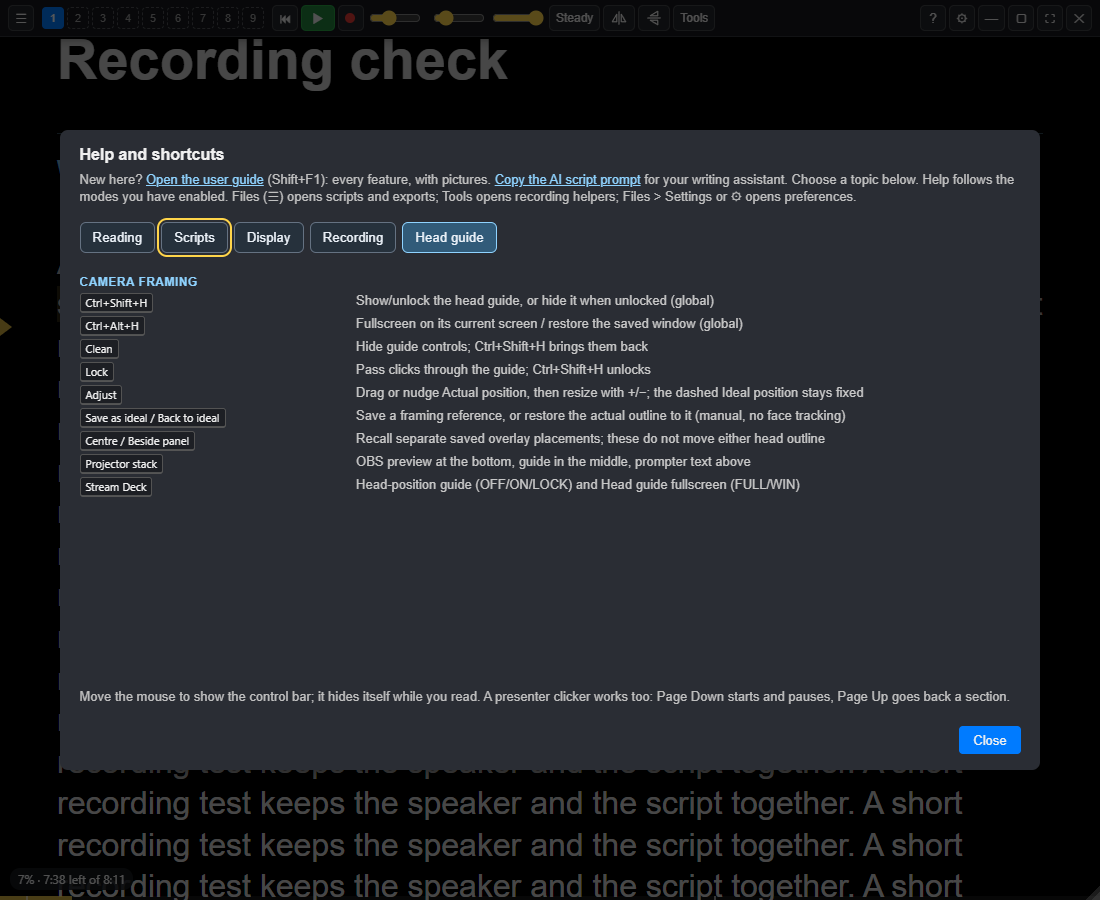
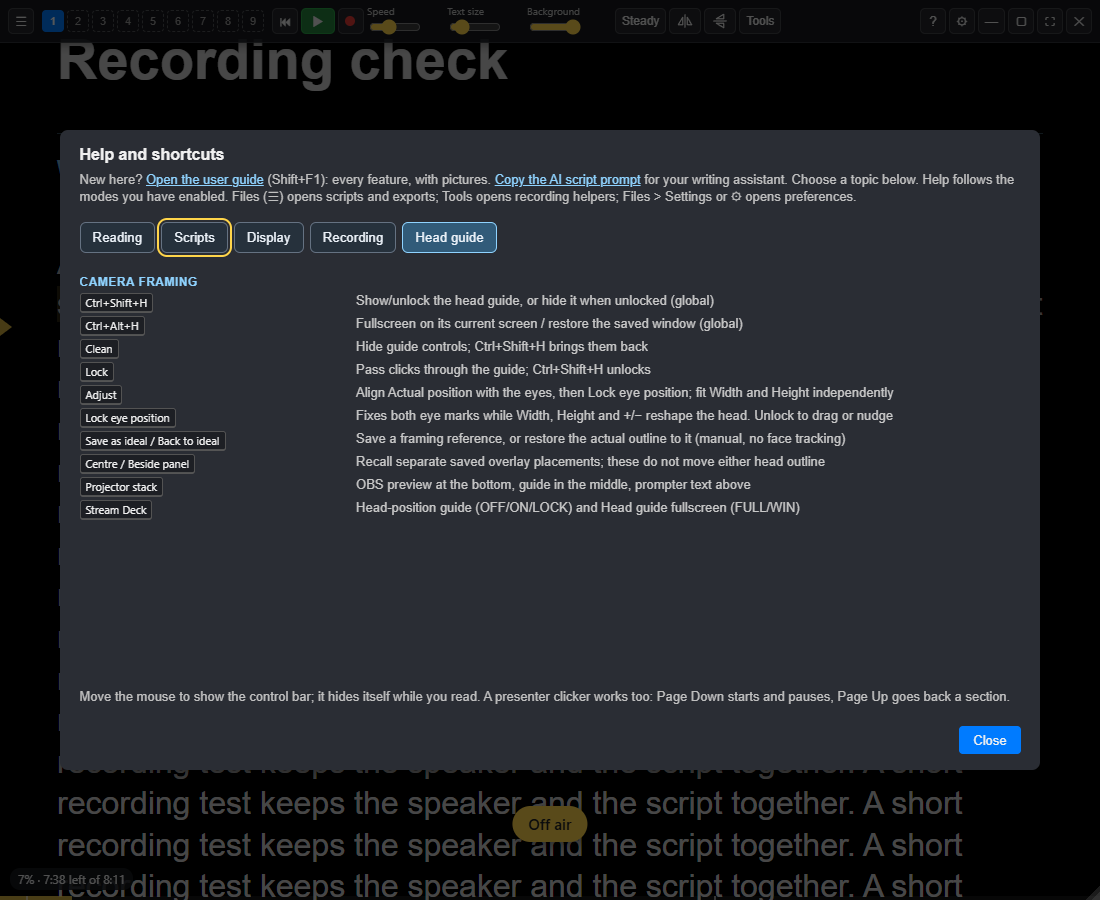
Fit head-guide width and height around locked eye positions

diff --git a/src/client/head-guide.js b/src/client/head-guide.js
@@ -5,6 +5,7 @@ const svg = document.querySelector( "svg" );
 let scale = 1;
 let resize = false;
 let pose = { x: 0, y: 0 };
+let eyesLocked = false;
 const idealShape = document.querySelector( "#head" ).cloneNode( true );
 idealShape.id = "ideal-head";
 idealShape.classList.add( "ideal" );
@@ -20,7 +21,7 @@ function point( event ) {
 	return matrix ? new DOMPoint( event.clientX, event.clientY ).matrixTransform( matrix.inverse() ) : null;
 }
 actualShape.onpointerdown = ( event ) => {
-	if ( event.button !== 0 ) return;
+	if ( event.button !== 0 || eyesLocked ) return;
 	const start = point( event );
 	if ( !start ) return;
 	dragging = { start, pose: { ...pose } };
@@ -28,7 +29,7 @@ actualShape.onpointerdown = ( event ) => {
 	event.preventDefault();
 };
 actualShape.onpointermove = ( event ) => {
-	if ( !dragging ) return;
+	if ( !dragging || eyesLocked ) return;
 	const next = point( event );
 	if ( !next ) return;
 	const moved = guidePose( { x: dragging.pose.x + ( next.x - dragging.start.x ) / 10, y: dragging.pose.y + ( next.y - dragging.start.y ) / 5.625, scale } );
@@ -38,6 +39,17 @@ actualShape.onpointerup = actualShape.onlostpointercapture = () => {
 	dragging = null;
 };
 const transform = value => `translate(${ value.x * 10 } ${ value.y * 5.625 }) translate(500 155) scale(${ value.scale }) translate(-500 -155)`;
+const shapeTransform = value => `translate(500 155) scale(${ value.width } ${ value.height }) translate(-500 -155)`;
+function showPose( element, value ) {
+	element.setAttribute( "transform", transform( value ) );
+	element.querySelector( ".head-outline" ).setAttribute( "transform", shapeTransform( value ) );
+	// Keep both eye marks fixed, even when changing the overall size.
+	element.querySelector( ".eye-reference" ).setAttribute( "transform", `translate(500 155) scale(${ 1 / value.scale }) translate(-500 -155)` );
+}
+document.querySelector( "#lock-eyes" ).onclick = () => guide.action( "preferences", { eyesLocked: !eyesLocked } );
+for ( const axis of [ "width", "height" ] ) {
+	document.querySelector( `#shape-${ axis }` ).oninput = event => guide.action( "preferences", { [axis]: Number( event.target.value ) / 100 } );
+}
 document.querySelector( "#adjust" ).onclick = () => {
 	const panel = document.querySelector( "#adjust-panel" );
 	panel.hidden = !panel.hidden;
@@ -57,9 +69,19 @@ guide.onState( ( value ) => {
 	for ( const button of document.querySelectorAll( "[data-place]" ) ) button.setAttribute( "aria-pressed", String( button.dataset.place === value.placement ) );
 	document.querySelector( "#fullscreen" ).textContent = value.fullscreen ? "Restore" : "Fullscreen";
 	scale = value.scale;
+	eyesLocked = value.eyesLocked === true;
+	document.body.classList.toggle( "eyes-locked", eyesLocked );
+	document.querySelector( "#lock-eyes" ).setAttribute( "aria-pressed", String( eyesLocked ) );
+	document.querySelector( "#lock-eyes" ).textContent = eyesLocked ? "Eyes fixed · unlock" : "Lock eye position";
+	for ( const button of document.querySelectorAll( ".pose-arrows button" ) ) button.disabled = eyesLocked;
+	for ( const axis of [ "width", "height" ] ) {
+		const percent = Math.round( value[axis] * 100 );
+		document.querySelector( `#shape-${ axis }` ).value = percent;
+		document.querySelector( `#shape-${ axis }-value` ).value = `${ percent }%`;
+	}
 	pose = { x: value.x, y: value.y };
-	document.querySelector( "#head" ).setAttribute( "transform", transform( value ) );
-	idealShape.setAttribute( "transform", transform( value.ideal ) );
+	showPose( actualShape, value );
+	showPose( idealShape, value.ideal );
 	idealShape.style.display = value.showIdeal ? "" : "none";
 	document.querySelector( "#ideal-visible" ).textContent = value.showIdeal ? "Hide ideal" : "Show ideal";
 	document.querySelector( "#pose-value" ).textContent = `X ${ value.x }% · Y ${ value.y }% · Size ${ Math.round( scale * 100 ) }%`;

diff --git a/src/head-guide.js b/src/head-guide.js
@@ -15,7 +15,7 @@ export function createHeadGuide( { dir, prompter, getSettings, saveSettings, sav
 	let normalBounds = null;
 	const state = () => {
 		const s = getSettings();
-		return { locked, fullscreen, chromeless: s.headGuideChromeless === true, ...guidePose( { x: s.headGuideX, y: s.headGuideY, scale: s.headGuideScale } ), ideal: guidePose( s.headGuideIdeal ), showIdeal: s.headGuideShowIdeal !== false, opacity: Math.max( 0.2, Math.min( 1, Number( s.headGuideOpacity ) || 0.75 ) ), colour: s.headGuideColour === "gold" ? "gold" : "mint" };
+		return { locked, fullscreen, chromeless: s.headGuideChromeless === true, eyesLocked: s.headGuideEyesLocked === true, ...guidePose( { x: s.headGuideX, y: s.headGuideY, scale: s.headGuideScale, width: s.headGuideWidth, height: s.headGuideHeight } ), ideal: guidePose( s.headGuideIdeal ), showIdeal: s.headGuideShowIdeal !== false, opacity: Math.max( 0.2, Math.min( 1, Number( s.headGuideOpacity ) || 0.75 ) ), colour: s.headGuideColour === "gold" ? "gold" : "mint" };
 	};
 	const snapshot = () => ( { ...state(), shown: !!overlay, bounds: overlay?.getBounds() ?? getSettings().headGuideBounds ?? null, windowedBounds: normalBounds ?? getSettings().headGuideBounds ?? null, placement: getSettings().headGuidePlacement ?? "centre", placements: getSettings().headGuidePlacements ?? {}, displayId: overlay ? screen.getDisplayMatching( overlay.getBounds() ).id : null, captureStatus: "Protected separate overlay; OBS capture route not verified" } );
 	const send = () => {
@@ -162,20 +162,23 @@ export function createHeadGuide( { dir, prompter, getSettings, saveSettings, sav
 		}
 		if ( name === "preferences" ) {
 			const patch = {};
+			if ( typeof value?.eyesLocked === "boolean" ) patch.headGuideEyesLocked = value.eyesLocked;
+			if ( Number.isFinite( value?.width ) ) patch.headGuideWidth = guidePose( value ).width;
+			if ( Number.isFinite( value?.height ) ) patch.headGuideHeight = guidePose( value ).height;
 			if ( Number.isFinite( value?.scale ) ) patch.headGuideScale = Math.max( 0.4, Math.min( 2, value.scale ) );
-			if ( Number.isFinite( value?.x ) ) patch.headGuideX = Math.max( -45, Math.min( 45, value.x ) );
-			if ( Number.isFinite( value?.y ) ) patch.headGuideY = Math.max( -45, Math.min( 45, value.y ) );
+			if ( !state().eyesLocked && Number.isFinite( value?.x ) ) patch.headGuideX = Math.max( -45, Math.min( 45, value.x ) );
+			if ( !state().eyesLocked && Number.isFinite( value?.y ) ) patch.headGuideY = Math.max( -45, Math.min( 45, value.y ) );
 			if ( Number.isFinite( value?.opacity ) ) patch.headGuideOpacity = Math.max( 0.2, Math.min( 1, value.opacity ) );
 			if ( Object.keys( patch ).length ) saveSettings( patch );
 		}
 		if ( name === "save-ideal" ) {
 			const pose = state();
-			saveSettings( { headGuideIdeal: { x: pose.x, y: pose.y, scale: pose.scale }, headGuideShowIdeal: true } );
+			saveSettings( { headGuideIdeal: guidePose( pose ), headGuideShowIdeal: true } );
 		}
 		if ( name === "ideal-visible" ) saveSettings( { headGuideShowIdeal: !state().showIdeal } );
 		if ( name === "reset-pose" ) {
 			const ideal = state().ideal;
-			saveSettings( { headGuideX: ideal.x, headGuideY: ideal.y, headGuideScale: ideal.scale } );
+			saveSettings( { headGuideX: ideal.x, headGuideY: ideal.y, headGuideScale: ideal.scale, headGuideWidth: ideal.width, headGuideHeight: ideal.height, headGuideEyesLocked: false } );
 		}
 		if ( name === "colour" ) saveSettings( { headGuideColour: state().colour === "mint" ? "gold" : "mint" } );
 		if ( name === "resize-start" && !fullscreen ) resizing = { cursor: screen.getCursorScreenPoint(), bounds: overlay.getBounds() };

diff --git a/src/client/head-guide.html b/src/client/head-guide.html
@@ -26,17 +26,23 @@
 </div>
 <hr>
 <strong>Actual position (manual)</strong>
+<p>Align the eye marks, lock them, then fit the outline.</p>
+<button type="button" id="lock-eyes" aria-pressed="false" title="Prevent dragging or nudging the outline; width and height adjust around the fixed eyes">Lock eye position</button>
 <div class="pose-arrows">
 <button type="button" data-y="-1" aria-label="Move outline up">↑</button>
 <button type="button" data-x="-1" aria-label="Move outline left">←</button>
 <button type="button" data-x="1" aria-label="Move outline right">→</button>
 <button type="button" data-y="1" aria-label="Move outline down">↓</button>
 </div>
+<label class="shape-control" for="shape-width">Width <output id="shape-width-value" for="shape-width">100%</output></label>
+<input id="shape-width" class="shape-range" type="range" min="40" max="200" step="1" value="100" aria-label="Head outline width around the eye position">
+<label class="shape-control" for="shape-height">Height <output id="shape-height-value" for="shape-height">100%</output></label>
+<input id="shape-height" class="shape-range" type="range" min="40" max="200" step="1" value="100" aria-label="Head outline height around the eye line">
 <p id="pose-value"></p>
 <button type="button" id="save-ideal">Save as ideal</button>
-<button type="button" id="reset-pose">Back to ideal</button>
+<button type="button" id="reset-pose" title="Restore the saved ideal shape and position, and unlock the eyes">Back to ideal</button>
 <button type="button" id="ideal-visible">Show ideal</button>
-<p>Drag the solid outline to match your head in the preview, or use the arrows and size buttons. The dashed outline marks your saved ideal position.</p>
+<p>Unlock to drag or nudge. Width, Height and +/− keep the eyes fixed. The dashed shape is your saved Ideal reference.</p>
 <p>This is a manual reference check; it does not track your face.</p>
 </div>
 <div id="stage">
@@ -46,9 +52,14 @@
 <path class="line dashed" d="M95 155H905"/>
 <text class="label" x="105" y="144">Eyes</text>
 <g id="head">
+<g class="head-outline">
 <ellipse class="line" cx="500" cy="187" rx="86" ry="121"/>
 <path class="line" d="M460 298 L455 329 Q424 345 368 367 Q322 384 297 459 M540 298 L545 329 Q576 345 632 367 Q678 384 703 459"/>
-<path class="line quiet" d="M436 155h28m72 0h28"/>
+</g>
+<g class="eye-reference">
+<path class="line eye-marks" d="M436 155h28m72 0h28"/>
+<circle class="line eye-anchor" cx="500" cy="155" r="3"/>
+</g>
 <text class="label pose-label" x="605" y="215">Actual position</text>
 </g>
 <text class="label" x="610" y="72">Headroom</text>

diff --git a/src/client/head-guide.css b/src/client/head-guide.css
@@ -29,10 +29,16 @@ body.fullscreen #resize { display: none; }
 .ideal .pose-label { fill: #fff; }
 #head { cursor: move; touch-action: none; }
 #head ellipse { pointer-events: all; }
-#adjust-panel { position: absolute; z-index: 4; left: 8px; top: 38px; width: min(360px, 94vw); padding: 12px; border-radius: 8px; background: #15222bf5; border: 1px solid #657282; text-wrap: pretty; }
+#adjust-panel { position: absolute; z-index: 4; left: 8px; top: 38px; width: min(360px, 94vw); max-height: calc(100vh - 48px); overflow-y: auto; padding: 12px; border-radius: 8px; background: #15222bf5; border: 1px solid #657282; text-wrap: pretty; }
 #adjust-panel[hidden] { display: none; }
-#adjust-panel p { font-size: 12px; line-height: 1.5; }
+#adjust-panel p { font-size: 12px; line-height: 1.5; text-wrap: balance; }
 #adjust-panel hr { border: 0; border-top: 1px solid #657282; margin: 10px 0; }
 .placements button[aria-pressed="true"] { border-color: #72efce; background: #34535c; }
 .pose-arrows { display: flex; gap: 7px; margin-top: 9px; }
 body.chromeless #adjust-panel, body.locked #adjust-panel { visibility: hidden; }
+.shape-control { display: flex; justify-content: space-between; margin-top: 9px; font-size: 12px; }
+.shape-range { display: block; width: 100%; margin: 3px 0 0; }
+#lock-eyes[aria-pressed="true"] { border-color: #72efce; background: #34535c; }
+button:disabled { opacity: .45; cursor: default; }
+body.eyes-locked #head { cursor: default; }
+button:focus-visible, input:focus-visible { outline: 2px solid #fbd86c; outline-offset: 2px; }

diff --git a/src/client/teleprompter.js b/src/client/teleprompter.js
@@ -91,11 +91,12 @@ const recording = createTakeLog( {
 	snapshot: () => recordingScriptSnapshot(),
 	obsState: () => obsUi.state(),
 	guideState: () => headGuideState
-		? { ...headGuideState, pose: { x: headGuideState.x, y: headGuideState.y, scale: headGuideState.scale } }
+		? { ...headGuideState, pose: { x: headGuideState.x, y: headGuideState.y, scale: headGuideState.scale, width: headGuideState.width, height: headGuideState.height } }
 		: ( {
 			shown: !!settings.showHeadGuide, fullscreen: !!settings.headGuideFullscreen,
 			chromeless: !!settings.headGuideChromeless, bounds: settings.headGuideBounds,
-			pose: { x: settings.headGuideX, y: settings.headGuideY, scale: settings.headGuideScale },
+			pose: { x: settings.headGuideX, y: settings.headGuideY, scale: settings.headGuideScale, width: settings.headGuideWidth ?? 1, height: settings.headGuideHeight ?? 1 },
+			eyesLocked: settings.headGuideEyesLocked === true,
 			ideal: settings.headGuideIdeal, showIdeal: settings.headGuideShowIdeal !== false,
 			captureStatus: "Separate protected overlay; actual OBS capture route requires verification"
 		} ),

diff --git a/src/client/help-tabs.js b/src/client/help-tabs.js
@@ -7,7 +7,8 @@ const guideRows = [
 	[ "Ctrl+Alt+H", "Fullscreen on its current screen / restore the saved window (global)" ],
 	[ "Clean", "Hide guide controls; Ctrl+Shift+H brings them back" ],
 	[ "Lock", "Pass clicks through the guide; Ctrl+Shift+H unlocks" ],
-	[ "Adjust", "Drag or nudge Actual position, then resize with +/−; the dashed Ideal position stays fixed" ],
+	[ "Adjust", "Align Actual position with the eyes, then Lock eye position; fit Width and Height independently" ],
+	[ "Lock eye position", "Fixes both eye marks while Width, Height and +/− reshape the head. Unlock to drag or nudge" ],
 	[ "Save as ideal / Back to ideal", "Save a framing reference, or restore the actual outline to it (manual, no face tracking)" ],
 	[ "Centre / Beside panel", "Recall separate saved overlay placements; these do not move either head outline" ],
 	[ "Projector stack", "OBS preview at the bottom, guide in the middle, prompter text above" ],

diff --git a/src/client/guide-pose.js b/src/client/guide-pose.js
@@ -4,6 +4,8 @@ export function guidePose( value = {} ) {
 	return {
 		x: Math.max( -45, Math.min( 45, finite( value?.x, 0 ) ) ),
 		y: Math.max( -45, Math.min( 45, finite( value?.y, 0 ) ) ),
-		scale: Math.max( 0.4, Math.min( 2, finite( value?.scale, 1 ) ) )
+		scale: Math.max( 0.4, Math.min( 2, finite( value?.scale, 1 ) ) ),
+		width: Math.max( 0.4, Math.min( 2, finite( value?.width, 1 ) ) ),
+		height: Math.max( 0.4, Math.min( 2, finite( value?.height, 1 ) ) )
 	};
 }

diff --git a/src/main.js b/src/main.js
@@ -162,6 +162,9 @@ const defaultSettings = {
 	showHeadGuide: false,
 	headGuideBounds: null,
 	headGuideScale: 1,
+	headGuideWidth: 1,
+	headGuideHeight: 1,
+	headGuideEyesLocked: false,
 	headGuideOpacity: 0.75,
 	headGuideColour: "mint",
 	headGuideFullscreen: false,

diff --git a/src/samples/acceptance-main.md b/src/samples/acceptance-main.md
@@ -6,7 +6,7 @@
 
 [Check OBS is connected and recording controls are allowed. Prepare the recorded slate, choose Flash and beep, and enable scratch audio. The script does not enable these settings for you.]
 
-[A00. Before recording, choose Check compatibility in Settings > Controls > Stream Deck. Confirm Sightline RC4 and plugin 0.1.9 are reported as compatible. In Stream Deck, open a key's settings and check its connection result.]
+[A00. Before recording, choose Check compatibility in Settings > Controls > Stream Deck. Confirm Sightline RC5 and plugin 0.1.9 are reported as compatible. In Stream Deck, open a key's settings and check its connection result.]
 
 [A00b. Before recording, open Settings from Files, then close it. Check both toolbar mirror icons independently and return them off. Switch Help tabs: the frame should stay still. In a spare slot, open a sample and choose Edit script: its source is read-only with Save a copy. Try Clear this slot, then Cancel: the sample should remain. Return to this acceptance script.]
 
@@ -78,7 +78,7 @@ That is the end of this attempt. {stop}
 My guide is a manual framing reference. The ideal shape shows my preferred
 position, and the actual shape records the comparison I have set by hand.
 
-[A09. Use the Head guide fullscreen key, or Ctrl+Alt+H, to fill the monitor and restore it. Try Clean, then Ctrl+Shift+H to reveal controls. Check the projector, guide and prompter stack. Leave the small Actual adjustment for the module-change check.]
+[A09. In Adjust, align the eye marks and choose Lock eye position. Fit Width and Height independently: both eye marks must stay fixed. Unlock the eyes to move Actual position again. Save as ideal only if you want to keep this new reference. Use the Head guide fullscreen key, or Ctrl+Alt+H, to fill the monitor and restore it. Try Clean, then Ctrl+Shift+H to reveal controls. Check the projector, guide and prompter stack. Leave the small Actual adjustment for the module-change check.]
 
 I can still see my preview and read the words. The guide should stay out
 of both the composed camera recording and the separate clean camera file.

diff --git a/docs/guide/06-remotes-and-screens.md b/docs/guide/06-remotes-and-screens.md
@@ -11,10 +11,19 @@ opacity or colour, then **Lock** to pass clicks through to the preview.
 
 **Adjust** opens the manual framing check. The solid **Actual position**
 outline can be dragged to match your head in the preview, nudged up, down,
-left or right, and resized with **+ / −**. **Save as ideal** copies that
-position and size to the dashed **Ideal position** outline. Then move the
+left or right, and resized with **+ / −**. Align the eye marks first, then
+choose **Lock eye position**. **Width** stretches the outline horizontally;
+**Height** stretches it vertically. Both eye marks stay fixed, including when
+you use the overall **+ / −** size buttons. Dragging and the nudge arrows are
+disabled until you unlock the eyes. This is separate from the toolbar's
+**Lock**, which passes all clicks through the overlay.
+
+**Save as ideal** copies the position, overall size, width and height to the
+dashed **Ideal position** outline. Then unlock the eyes and move the
 actual outline independently to compare your current framing with the
-reference. **Back to ideal** restores it; **Hide ideal** hides the reference.
+reference. **Back to ideal** restores it and unlocks the eyes;
+**Hide ideal** hides the reference. Eye lock fixes the outline inside the
+guide; moving or resizing the whole overlay still moves the reference on screen.
 This is a manual check, without face detection or automatic tracking.
 
 ![Separate ideal and actual head-position outlines](images/head-guide.png)

diff --git a/readme.md b/readme.md
@@ -231,10 +231,15 @@ Planned features and their order are in [ROADMAP.md](ROADMAP.md).
 **Local Windows acceptance build:** RC1 established the feature baseline;
 RC2 refreshed its bundled help and added the reusable acceptance samples.
 **1.0.7-rc.3** adds compatibility reporting with private Stream Deck **0.1.9**;
-**1.0.7-rc.4** keeps the toolbar sliders labelled at every supported width. The latest
+**1.0.7-rc.4** keeps the toolbar sliders labelled at every supported width;
+**1.0.7-rc.5** adds eye-anchored head-outline fitting. The latest
 published app remains **1.0.6**. No tag, merge, Marketplace publication or
 website deployment is part of this candidate.
 
+- **Fit the head guide around fixed eyes:** **Adjust > Lock eye position**
+  stops accidental dragging or nudging. Independent **Width** and **Height**
+  controls reshape Actual position around both fixed eye marks. Save as ideal
+  keeps the shape; the dimensions and eye lock are recorded in the edit pack.
 - **Labelled toolbar sliders:** compact labels stay above every visible slider:
   **Speed** (or **Response** in voice mode), **Text size**, and **Background**
   (**On-air BG** when on air). Narrow windows keep the labels too.

diff --git a/docs/EDIT-PACK.md b/docs/EDIT-PACK.md
@@ -311,6 +311,15 @@ Centre/Beside placements. Capture-route status is explicitly unverified
 until the actual OBS output has been checked. The guide is not added as an
 OBS source. No video or camera frames are embedded in these snapshots.
 
+The actual `pose` and `ideal` pose can include additive `width` and `height`
+ratios alongside `x`, `y` and `scale`: `1` is the original proportion,
+`1.25` is 25% wider or taller. Missing width/height in older logs mean `1`.
+The outline scales around the eye centre `(500, 155)` in the guide's
+`1000 × 562.5` viewBox; position offsets use percentages of that viewBox.
+The eye marks retain their spacing while the head outline changes shape or size.
+`eyesLocked` records the manual position lock, separate from click-through
+`locked`. These are session preferences, not automatic measurements of a face.
+
 Do not treat these observations as a continuous or frame-accurate timecode
 map. Connection loss can leave gaps or unknown file associations. Use the
 slate or scratch audio for precise synchronisation, and preserve uncertain
